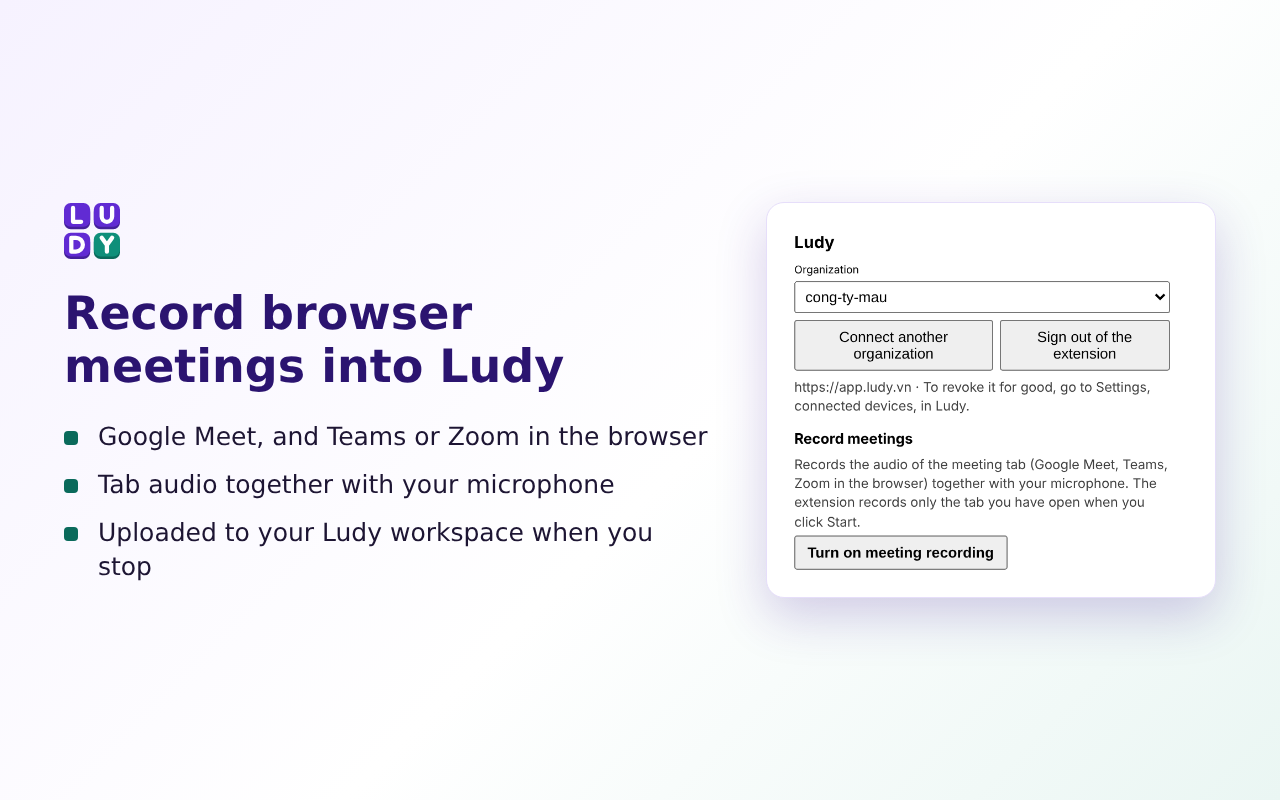
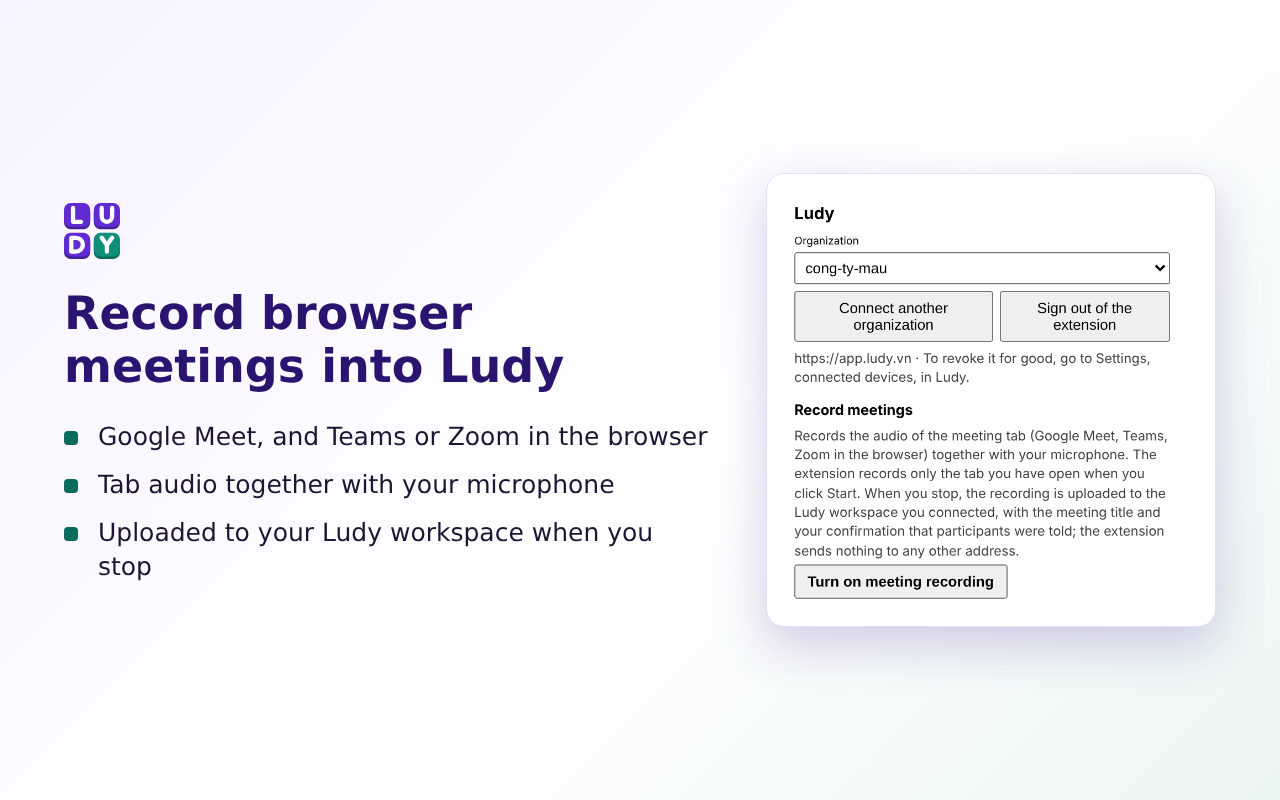
docs+fix(extension): review against the Chrome Web Store 2026 policy; disclose where a recording goes; correct the calendar and live-notes statements (D1, Refs #3180)
A written review in docs/security with a verdict and evidence per policy point (the store's own pages
could not be read from the session and the review says so); the popup note says where the recording
goes; the privacy page (v1.1) states what the calendar read keeps for Google and Outlook and that live
notes send audio while recording; the runbook's drafts follow, and a section lists what only a person
can do. No permission is added or loosened.

Claude-Session: https://claude.ai/code/session_01GbDCpsQGF6nQV3XHopMuyF

Changed region(s): [[0.5938, 0.25, 0.9688, 0.7812]]

diff --git a/apps/web/src/content/privacy-vi.ts b/apps/web/src/content/privacy-vi.ts
@@ -15,7 +15,7 @@ export const privacyVi: PrivacyCopy = {
   crumbLabel: 'Đường dẫn trang',
   title: 'Chính sách quyền riêng tư',
   lead: 'Trang này nói rõ Ludy xử lý dữ liệu thế nào khi bạn dùng tiện ích Ludy cho trình duyệt và khi bạn dùng Ludy Cloud. Phần về tiện ích đi trước, vì đó là phần cần đọc trước khi bạn bấm ghi.',
-  versionLine: 'Phiên bản 1.0, có hiệu lực từ 13/11/2026.',
+  versionLine: 'Phiên bản 1.1, có hiệu lực từ 15/11/2026.',
   reviewNotice: 'Chính sách này đang được rà soát và có thể được cập nhật.',
   contentsTitle: 'Nội dung',
   sections: [
@@ -58,6 +58,8 @@ export const privacyVi: PrivacyCopy = {
             ['Mã đăng nhập của tiện ích', 'Sau khi bạn đăng nhập Ludy và cho phép tiện ích', 'Để Ludy biết tiện ích làm việc cho bạn, trong một tổ chức'],
             ['Tên thiết bị, ví dụ "Tiện ích Ludy, Chrome trên Windows"', 'Khi bạn kết nối tiện ích', 'Để bạn thấy và thu hồi thiết bị trong Ludy. Chỉ gồm trình duyệt và hệ điều hành, không có địa chỉ mạng hay số sê-ri'],
             ['Địa chỉ Ludy và các tính năng bạn đã bật', 'Khi bạn cài đặt tiện ích', 'Lưu trong bộ nhớ riêng của tiện ích trên máy bạn'],
+            ['Các cuộc họp sắp tới trong lịch của bạn (tên, giờ, nơi họp; tối đa 5 cuộc trong 30 phút tới)', 'Chỉ khi bạn bật đọc lịch trong Ludy và cho phép thêm một lần ở bước đăng nhập tiện ích', 'Để hiện thẻ "Sắp họp" và điền sẵn tên cuộc họp khi bạn bấm "Ghi cuộc họp này". Tiện ích chỉ hiển thị danh sách này, không lưu'],
+            ['Âm thanh gửi đi trong lúc ghi', 'Chỉ khi bạn tick "Ghi chú trực tiếp" cho cuộc họp đó', `Để ${N.gm} ghi chú ngay trong cuộc họp: các mẩu âm thanh được gửi tới địa chỉ Ludy của bạn khi đang ghi, không đợi tới lúc dừng; có thể tốn thêm phút phiên âm`],
           ],
         },
         {
@@ -201,7 +203,9 @@ export const privacyVi: PrivacyCopy = {
           items: [
             'Dữ liệu tài khoản: họ tên, email, mật khẩu (chỉ lưu dạng băm), yếu tố xác thực hai lớp; và hoạt động như thời điểm đăng nhập, địa chỉ IP, trình duyệt, nhật ký thao tác. Với dữ liệu này, Ludy là bên kiểm soát dữ liệu.',
             'Dữ liệu trong sổ sách của tổ chức (chứng từ, hóa đơn, sao kê, bút toán, và cuộc họp): tổ chức quyết định mục đích xử lý. Ludy là bên xử lý và chỉ làm theo chỉ dẫn của tổ chức.',
-            'Lịch Google: chỉ khi một thành viên tự kết nối lịch của mình. Ludy đọc các khoảng giờ bận, không đọc tiêu đề hay người tham dự. Mọi thành viên của tổ chức thấy các khoảng giờ bận này (không kèm nội dung).',
+            'Lịch Google: chỉ khi một thành viên tự kết nối lịch của mình. Mặc định Ludy chỉ đọc các khoảng giờ bận, không đọc tiêu đề hay người tham dự, và mọi thành viên của tổ chức thấy các khoảng giờ bận này (không kèm nội dung).',
+            'Chỉ khi chính thành viên đó bật "Cho Ludy đọc tên và giờ cuộc họp trong lịch" và cho phép thêm một lần trên trang của Google, Ludy đọc từ lịch chính của họ, trong khoảng từ 1 ngày trước đến 7 ngày sau: tên cuộc họp (cắt còn 200 ký tự), giờ bắt đầu và kết thúc, múi giờ, địa chỉ vào họp trên Google Meet, Zoom hoặc Teams và số người được mời. Ludy không đọc địa chỉ email người được mời, phần mô tả hay tệp đính kèm. Chỉ chính thành viên đó đọc được các dòng này (chủ sở hữu, quản trị viên, thành viên khác và hệ thống không đọc). Chúng bị xóa ngay khi họ tắt việc đọc hoặc ngắt kết nối lịch; các dòng nằm ngoài khoảng trên được dọn đi theo lịch quét, và dòng đã gắn với một cuộc họp đã ghi được giữ cùng cuộc họp đó. Tên cuộc họp có thể chứa tên người khác.',
+            'Lịch Outlook (Microsoft): chỉ khi một thành viên tự kết nối lịch của mình. Microsoft chỉ có loại quyền đọc kèm tiêu đề sự kiện, nên quyền được cấp ngay từ lúc kết nối ở mức đó và màn hình nói rõ như vậy; việc Ludy đọc và giữ gì do mã của Ludy và công tắc của thành viên quyết định. Mặc định Ludy chỉ đọc và giữ các khoảng giờ bận. Chỉ khi thành viên bật "Cho Ludy đọc tên và giờ cuộc họp trong lịch", Ludy mới đọc và giữ tên cuộc họp, giờ, địa chỉ vào họp Teams và số người được mời (Ludy đếm số người được mời trong bộ nhớ và không giữ địa chỉ nào), trong cùng khoảng từ 1 ngày trước đến 7 ngày sau, với cùng quy tắc về người đọc và việc xóa như lịch Google ở trên.',
             'Mục đích: cung cấp dịch vụ, bảo mật (xác thực đăng nhập, xác thực hai lớp, nhật ký kiểm toán), hỗ trợ và vận hành, và trả lời yêu cầu hợp lệ của cơ quan nhà nước.',
             'Ludy không bán dữ liệu cá nhân, không dùng chứng từ hay sổ sách của bạn để quảng cáo, và không dùng chúng để huấn luyện mô hình AI.',
             'AI với chứng từ: hóa đơn điện tử dạng XML được đọc trực tiếp, không qua AI. PDF và ảnh chụp chứng từ được gửi tới nhà cung cấp AI của triển khai để đọc nội dung. Kết quả luôn được kiểm bằng quy tắc và do người duyệt trước khi ghi sổ.',

diff --git a/apps/web/src/content/privacy-en.ts b/apps/web/src/content/privacy-en.ts
@@ -15,7 +15,7 @@ export const privacyEn: PrivacyCopy = {
   crumbLabel: 'Breadcrumb',
   title: 'Privacy policy',
   lead: 'This page explains how Ludy handles data when you use the Ludy browser extension and when you use Ludy Cloud. The extension comes first, because it is the part to read before you press record.',
-  versionLine: 'Version 1.0, effective 13 November 2026.',
+  versionLine: 'Version 1.1, effective 15 November 2026.',
   reviewNotice: 'This policy is being reviewed and may be updated.',
   contentsTitle: 'Contents',
   sections: [
@@ -58,6 +58,8 @@ export const privacyEn: PrivacyCopy = {
             ['The extension\'s sign-in token', 'After you sign in to Ludy and allow the extension', 'So Ludy knows the extension works for you, in one organization'],
             ['A device name, for example "Tiện ích Ludy, Chrome trên Windows"', 'When you connect the extension', 'So you can see and revoke the device in Ludy. It holds the browser and the operating system only, never a network address or serial number'],
             ['The Ludy address and the features you turned on', 'When you set the extension up', 'Kept in the extension\'s own storage on your computer'],
+            ['Your next meetings from your calendar (title, time, place; at most 5 in the next 30 minutes)', 'Only when you turn on calendar reading in Ludy and allow it once more when you sign in to the extension', 'To show the "Starting soon" card and fill in the meeting title when you click "Record this meeting". The extension only displays this list and does not keep it'],
+            ['Audio sent while you record', 'Only when you tick "Live notes" for that meeting', `So ${N.gm} can take notes during the meeting: small pieces of audio go to your Ludy address while you record, without waiting for you to stop; this may use extra transcription minutes`],
           ],
         },
         {
@@ -201,7 +203,9 @@ export const privacyEn: PrivacyCopy = {
           items: [
             'Account data: name, email, password (stored only as a hash), two-factor method; and activity such as sign-in times, IP address, browser and an action log. For this data Ludy is the data controller.',
             'Data in an organization\'s books (documents, invoices, bank statements, journal entries, and meetings): the organization decides why it is processed. Ludy is the processor and acts only on the organization\'s instructions.',
-            'Google Calendar: only when a member connects their own calendar. Ludy reads busy time slots, not titles or attendees. Every member of the organization sees these busy slots (without any content).',
+            'Google Calendar: only when a member connects their own calendar. By default Ludy reads busy time slots only, not titles or attendees, and every member of the organization sees these busy slots (without any content).',
+            'Only when that member turns on "Let Ludy read the names and times of meetings in my calendar" and allows it once more on Google\'s page, Ludy reads from their primary calendar, from 1 day back to 7 days ahead: the meeting name (cut at 200 characters), start and end, time zone, the Google Meet, Zoom or Teams join address and the number of invitees. Ludy does not read invitees\' email addresses, descriptions or attachments. Only that member can read these rows (owners, admins, other members and the system cannot). They are deleted at once when the member turns the reading off or disconnects the calendar; rows outside that window are cleaned up by a scheduled sweep, and a row linked to a meeting the member recorded is kept with that meeting. A meeting name can contain other people\'s names.',
+            'Outlook (Microsoft) calendar: only when a member connects their own calendar. Microsoft offers only a permission that includes event titles, so the grant is at that level from the moment of connecting, and the screen says so; what Ludy reads and keeps is decided by Ludy\'s own code and the member\'s switch. By default Ludy reads and keeps busy time slots only. Only when the member turns on "Let Ludy read the names and times of meetings in my calendar" does Ludy read and keep the meeting name, time, Teams join address and number of invitees (Ludy counts the invitees in memory and keeps no address), in the same window from 1 day back to 7 days ahead, with the same rules on who can read it and on deletion as for Google Calendar above.',
             'Purposes: to provide the service, security (sign-in checks, two-factor, audit log), support and operations, and answering valid requests from public authorities.',
             'Ludy does not sell personal data, does not use your documents or books for advertising, and does not use them to train AI models.',
             'AI with documents: e-invoices in XML are read directly, without AI. PDFs and photos of documents are sent to the deployment\'s AI provider to be read. The result is always checked by rules and approved by a person before it is booked.',

diff --git a/apps/extension/src/strings.ts b/apps/extension/src/strings.ts
@@ -33,7 +33,7 @@ const VI = {
   agendaOn: 'Hiện cuộc họp sắp tới',
   meetingsOn: 'Bật ghi cuộc họp',
   meetingsOff: 'Tắt và trả lại quyền',
-  meetingsNote: 'Ghi âm tab họp (Google Meet, Teams, Zoom trên trình duyệt) cùng micro của bạn. Tiện ích chỉ ghi tab bạn đang mở khi bấm Bắt đầu.',
+  meetingsNote: 'Ghi âm tab họp (Google Meet, Teams, Zoom trên trình duyệt) cùng micro của bạn. Tiện ích chỉ ghi tab bạn đang mở khi bấm Bắt đầu. Khi bạn dừng, bản ghi được tải lên tổ chức Ludy bạn đã kết nối, kèm tên cuộc họp và xác nhận đã báo cho người tham gia; tiện ích không gửi đến địa chỉ nào khác.',
   permissionDenied: 'Chưa có quyền ghi tab. Hãy bấm lại và chọn "Cho phép".',
   consentTitle: 'Xác nhận đồng ý ghi âm (Bắt buộc)',
   consentNotice: 'Trước khi bắt đầu, người chủ trì phải thông báo cho tất cả người tham gia rằng cuộc họp được ghi âm và xử lý theo chính sách quyền riêng tư.',
@@ -135,7 +135,7 @@ export const ENGLISH: Strings = {
   agendaOn: 'Show upcoming meetings',
   meetingsOn: 'Turn on meeting recording',
   meetingsOff: 'Turn off and give the permission back',
-  meetingsNote: 'Records the audio of the meeting tab (Google Meet, Teams, Zoom in the browser) together with your microphone. The extension records only the tab you have open when you click Start.',
+  meetingsNote: 'Records the audio of the meeting tab (Google Meet, Teams, Zoom in the browser) together with your microphone. The extension records only the tab you have open when you click Start. When you stop, the recording is uploaded to the Ludy workspace you connected, with the meeting title and your confirmation that participants were told; the extension sends nothing to any other address.',
   permissionDenied: 'Tab recording is not allowed yet. Click again and choose "Allow".',
   consentTitle: 'Recording consent confirmation (Mandatory)',
   consentNotice: 'Before starting, the organizer must notify all participants that the meeting is recorded and processed according to privacy policy.',

diff --git a/apps/web/src/content/site.ts b/apps/web/src/content/site.ts
@@ -39,8 +39,8 @@ export const LEGAL_PAGES = {
 export type LegalPageKey = keyof typeof LEGAL_PAGES;
 // The version of the privacy page and the day it took effect (ISO date). The copy of both languages shows them, and
 // privacy-page.test.ts checks that they do. Change them in the same commit as any change to what the page says.
-export const PRIVACY_VERSION = '1.0';
-export const PRIVACY_UPDATED = '2026-11-13';
+export const PRIVACY_VERSION = '1.1';
+export const PRIVACY_UPDATED = '2026-11-15';
 // Where a privacy request goes by email (deletion, export, questions): the address the owner gave on 2026-11-13. null hides the
 // contact line, so a deployment of this site with no address shows none. Never invent one.
 export const PRIVACY_CONTACT_EMAIL: string | null = 'hi@ludy.so';

diff --git a/docs/security/extension-store-policy-review-2026.md b/docs/security/extension-store-policy-review-2026.md
@@ -1,0 +1,42 @@
+<!-- SPDX-License-Identifier: AGPL-3.0-only -->
+# The Ludy extension against the Chrome Web Store policy of 2026 (D1)
+
+Issue #3180 (step D1 of [Meetings integrations](../plan/meetings-integrations.md), section 7), reviewed on 2026-11-15 at commit `c483edbc` of `main`. Scope: the extension (`apps/extension/**`), its store assets (`apps/extension/store/**`), the listing and privacy answers drafted in [the extension store runbook](../runbooks/extension-store.md), and the privacy page `https://ludy.so/privacy` (`apps/web/src/content/privacy-*.ts`). It is useful for D2 (Edge) and for the owner's submission (#2584); the things only a person can do are in the runbook, section "Policy review 2026: what only a person can do".
+
+## What could and could not be read
+
+**The store's own policy pages could not be read.** The session that wrote this review has no network route to `developer.chrome.com` (the name does not resolve: it is outside the session's allowed domains), so the program policies, the user data policy, the Limited Use text and the blog post on the 2026 changes were **not read**. No other route was tried (no mirror, no search-engine summary, no cached copy): a policy read second-hand is not evidence. To read them, `developer.chrome.com` has to be allowed in the session's network settings, or a person reads the pages (runbook, item P1).
+
+What this review rests on instead:
+
+- **The requirement as recorded in the issue and the plan** (research of 2026-11-14, not re-read here): the policy in force from 2026-08-01 requires the data an extension collects to be necessary for one disclosed purpose, every collection to be prominently disclosed, and the most common refusal is a permission that is asked and not used; the review points the issue lists (single purpose, permissions asked versus used, prominent disclosure before the first recording, the privacy policy saying where audio is processed and for how long, the data-safety answers, no remote code, limited use).
+- **General knowledge of the long-standing store policies**, from before this session and **unchecked against the current text**: that is why each verdict below is "the extension against the requirement as summarized", and why every store-side wording is a person's item to confirm.
+- **The code and the texts of this repository**, which were read: each piece of evidence below is a file and line of the commit above.
+
+A verdict here is therefore a statement about the extension. It is not a statement that the store will accept it.
+
+## The points, with verdict and evidence
+
+| # | Policy point | Verdict | Evidence |
+|---|---|---|---|
+| 1 | Single purpose | **Pass, wording fixed** | One purpose: record the audio of a meeting in a browser tab with the microphone and upload it to the member's own Ludy workspace (`manifest.json` description, `_locales/*/messages.json`). The other things the popup does serve it: sign-in and the org picker (`popup.ts:120`), the "starting soon" card that fills the meeting title (`agenda.ts`, B2) and live notes (`capture-run.ts:154`, ticked per meeting). `src/page-capture.ts` defines a generic capture contract that **no feature uses** and needs no permission the manifest lacks. **Gap found:** the single-purpose draft and the long description in the runbook named neither the calendar shortcut nor live notes; fixed (the drafts now say how both serve the one purpose) |
+| 2 | Permissions asked and used | **Pass** (two items for a person) | `storage`: `popup.ts:18`, `background.ts:30,71`, `state.ts`. `identity`: `popup.ts:119-120` (`launchWebAuthFlow` only). Host `https://app.ludy.vn/*`: every request goes through `createClient(address, token)` (`api.ts:67`); there is no other `fetch`. `tabCapture`: `popup.ts:325` (`getMediaStreamId`), asked at `popup.ts:296` on the member's click when meetings is turned on, released at `popup.ts:308`. `offscreen`: `background.ts:18` (`USER_MEDIA`). Optional hosts `https://*/*`, `http://localhost/*`: `popup.ts:88` asks for **one origin** the member typed, removed again at `popup.ts:96`. No permission is asked and unused. The fixed list is in `src/manifest-policy.ts`, and CI fails a built manifest that differs from it (`scripts/check-manifest.mjs`; run for this review: "permissions match the fixed list"). **For a person:** (a) the broad optional pattern `https://*/*` is the one a reviewer may question; it is optional, asked for one origin at a time, and needed for self-hosted Ludy, and the justification is in the runbook; it cannot be narrowed without dropping self-hosting. (b) Whether Chrome accepts `offscreen` in `optional_permissions` was **not verified**: the e2e tests replace the permission prompt (`e2e/extension.spec.ts:417-426`) and the packaged manifest check only compares lists. Step 3 of the manual test in `apps/extension/README.md` ("the browser asks for tab capture") settles it on a real Chrome and has to be run before the submission |
+| 3 | Prominent disclosure before the first recording | **Fixed, then pass** | Before: the consent step (`consent.ts`, `strings.ts consentNotice`) is about telling the **participants**; the note shown before "Bật ghi cuộc họp" (`meetingsNote`, `popup.ts:176`) said what is recorded and that only the open tab is recorded, but **not where the recording goes**. Now: it says that on stop the recording is uploaded to the Ludy workspace the member connected, with the meeting title and the confirmation, and that nothing goes to any other address (`strings.ts` `meetingsNote`, both languages). The other collections are disclosed at the point of choice: live notes send audio while recording (`liveNotesHint`), the calendar shortcut says what it reads (`agendaNote`). Left as it is: the device name (browser and operating system) sent when connecting is disclosed on the privacy page and the runbook, not in the popup; low sensitivity, listed as a follow-up. The store screenshots that show the popup note were regenerated (`store/en-1-…`, `store/vi-1-…`) |
+| 4 | Privacy policy: where audio is processed and for how long | **Fixed, then pass** (lawyer must re-read) | The page exists at `/privacy` and `/en/privacy` and has the extension first: what is handled, the consent step, one address only, storage and encryption, who reads, the transcription provider and AI-off case, retention table (audio 30 days by default, video 7, text 12 months), rights. **Gaps found, fixed in `privacy-vi.ts` and `privacy-en.ts`, version 1.1 of 2026-11-15:** (a) the page said Ludy reads busy slots and **not titles** for the calendar, which stopped being true with B1 (#3165, Google) and B3 (#3167, Outlook); both now state, with the member's own switch, what is read and kept (name cut at 200, times, time zone, join address, number of invitees; never an invitee address, a description or an attachment), who reads it, when it is deleted, and that Outlook's permission is title-level from the connect; (b) live notes send audio **while recording**, which the page did not say; two rows were added to the extension's table, one for each |
+| 5 | Data-safety answers of the listing (the "Privacy practices" tab) | **Pass** (answers updated, a person re-enters them) | The runbook's declaration (authentication information, personal communications, personally identifiable information: yes; website content, history, location, financial, health, user activity: no; the three certifications) still matches the code: the extension reads no page (`manifest-policy.ts` forbids content scripts), and the calendar list is received from the member's own Ludy account, not collected from a page. The "why" text of the two ticked categories now also names the calendar titles and the live-notes audio. The form is a declaration: the owner enters it and the lawyer (#2585) sees it first |
+| 6 | No remote code | **Pass** | Manifest V3; `content_security_policy.extension_pages` is `script-src 'self'; object-src 'self'` and `manifestViolations` refuses `unsafe-eval`, `unsafe-inline`, any address or `*` there; `content_scripts`, `externally_connectable`, `web_accessible_resources`, `update_url`, `declarative_net_request` and `sandbox` are refused (`manifest-policy.ts:16`); a search of `src/` and `scripts/build.mjs` for `eval`, `new Function`, `importScripts`, `document.write`, script elements, imports from an address and `innerHTML` assignments finds nothing, and the only absolute addresses in the code are the default Ludy address (`ludy-address.ts:5`) and the host permission patterns (`manifest-policy.ts:10,13`); the build runs no bundler and the package has no runtime dependency (`apps/extension/package.json`, `scripts/build.mjs`) |
+| 7 | Limited use and handling of user data | **Pass on behavior; wording for a person** | Behavior: recordings, the token and the calendar list go only to the Ludy address the member configured; no analytics, telemetry or advertising identifier (`src/` has none, every request goes through `api.ts:67`); nothing is sold, used for advertising or for credit, and the privacy page says so (summary and "Ludy Cloud in general"). The extension token is one org, one member, the turned-on features, 90 days, revocable (privacy page, "Where the data goes"). **Not verifiable here:** whether the policy asks for a specific affirmative "Limited Use" sentence in the privacy policy or the listing. A proposed sentence is in the runbook (item P4) for the lawyer; it was **not** added to the live page, because it is a legal commitment that has to be reviewed first |
+| 8 | Listing text matches what the extension does (no misleading metadata) | **Fixed** | The long descriptions drafted in the runbook said nothing of the calendar shortcut and live notes, and the Vietnamese one said the popup is Vietnamese only, which stopped being true with #3008 (English for an English browser). The drafts were corrected in both languages. The short description (`_locales/*/messages.json`) is unchanged and within the 132-character limit (checked by `check:manifest`) |
+
+## What changed in this PR
+
+- `apps/extension/src/strings.ts`: the note before turning meeting recording on says where the recording goes (point 3). No manifest, permission or `package.json` change; the permission list is not loosened.
+- `apps/extension/store/en-1-screenshot-1280x800.png` and `vi-1-…`: regenerated with `node scripts/store-art.mjs`, because the popup note is in them.
+- `apps/web/src/content/privacy-vi.ts`, `privacy-en.ts`, `site.ts`: points 4 above; version 1.1, 2026-11-15. **This is live copy on the marketing site once merged:** the effective date in the page is the date of this change, so the owner moves it if the merge or the deploy is later, in the same three files.
+- `docs/runbooks/extension-store.md`: the single-purpose draft, the long descriptions and the data-safety "why" rows brought in line, and the new section for what only a person can do.
+
+## Follow-ups that are not blocking
+
+- **Device name at sign-in:** the browser and operating system name sent when connecting is only in the privacy page; add one line to the popup's sign-in step if a reviewer asks (a P3 follow-up issue, #3273).
+- **Edge (D2):** Microsoft's Edge Add-ons policies were not read either; this review does not apply to them.
+- **The two policy re-reads** (the live policy text and the 2026 changes) are item P1 of the runbook; a differing requirement changes this table, not only the runbook.

diff --git a/docs/runbooks/extension-store.md b/docs/runbooks/extension-store.md
@@ -65,7 +65,7 @@ Not requested, by rule of plan section 5.7: `<all_urls>`, `tabs`, `activeTab`, `
 
 For the store's "single purpose" field (the store wants one narrow purpose, stated plainly). Draft:
 
-> Ludy records the audio (and, only when the member ticks it, the video) of a meeting that is open in the member's browser tab, together with their microphone, and uploads it to the member's own Ludy workspace as a meeting, after the member confirms the participants were told. Signing in to Ludy, choosing the workspace and turning meeting recording on or off exist only to serve that one purpose.
+> Ludy records the audio (and, only when the member ticks it, the video) of a meeting that is open in the member's browser tab, together with their microphone, and uploads it to the member's own Ludy workspace as a meeting, after the member confirms the participants were told. Signing in to Ludy, choosing the workspace and turning meeting recording on or off exist only to serve that one purpose. The "starting soon" card, which fills in the meeting title from the member's own calendar (only when the member turned calendar reading on in Ludy), and the optional live notes, which send the audio to the same workspace while recording instead of only at the end, serve the same purpose and send nothing to any other address.
 
 Check against the manifest's `description`, which is a message reference whose texts are in `apps/extension/_locales/<lang>/messages.json` (vi: "Ghi lại cuộc họp trên trình duyệt vào Ludy: ghi âm tab họp cùng micro, tải lên khi dừng."; en: "Record a browser meeting's tab audio and your microphone into Ludy, and upload it when you stop."), and keep the two aligned: the store compares them.
 
@@ -95,8 +95,8 @@ What the extension handles, from `src/api.ts`, `src/state.ts`, `src/auth.ts`, `s
 | Store category | Tick? | Why |
 |---|---|---|
 | Authentication information | Yes | The extension token, kept in the extension's storage and sent to the member's Ludy address with each request. Its scope is one workspace, one member and the turned-on features; it expires after 90 days and the member can revoke it in Ludy |
-| Personal communications | Yes | The audio of a meeting the member chooses to record, with their microphone, and the video only when they tick "Ghi cả video". The member confirms that participants were told before anything is recorded |
-| Personally identifiable information | Yes | The meeting's name the member types, and the voices (and, with video, the faces) of participants in the recording. The extension also sends a device name such as "Tiện ích Ludy, Chrome trên Windows" (browser and operating system, never an address or serial number) so the member can see and revoke the device in Ludy. Declared on the side of more disclosure (Meetings PO decision, 2026-11-11) |
+| Personal communications | Yes | The audio of a meeting the member chooses to record, with their microphone, and the video only when they tick "Ghi cả video"; with "Ghi chú trực tiếp" ticked, pieces of the audio are sent while recording and not only at the end. The member confirms that participants were told before anything is recorded |
+| Personally identifiable information | Yes | The meeting's name the member types, the title and time of the member's next calendar meetings (only when they turned calendar reading on in Ludy; shown in the popup, used to fill in the meeting title and not kept by the extension), and the voices (and, with video, the faces) of participants in the recording. The extension also sends a device name such as "Tiện ích Ludy, Chrome trên Windows" (browser and operating system, never an address or serial number) so the member can see and revoke the device in Ludy. Declared on the side of more disclosure (Meetings PO decision, 2026-11-11) |
 | Website content | No | The extension reads no page content, no address, no title and no selected text. The generic page-capture contract exists in the code (`src/page-capture.ts`) but no feature uses it and the permissions it would need are not in the manifest |
 | Web history, location, financial and payment information, health information, user activity | No | Not collected. No analytics, no telemetry, no advertising identifier (`apps/extension/src` has no such code; every request goes to the configured Ludy address) |
 
@@ -140,6 +140,8 @@ Cách hoạt động
 - Trước khi ghi, bạn phải xác nhận đã thông báo cho tất cả người tham gia rằng cuộc họp được ghi âm. Không có xác nhận thì không bắt đầu được.
 - Khi ghi, biểu tượng hiện REC và đồng hồ chạy. Bản ghi được lưu trên máy bạn khi đang ghi, nên đóng tab nhầm không làm mất.
 - Khi dừng, bản ghi được tải lên cuộc họp trong Ludy. Âm thanh được mã hóa khi lưu. Video chỉ được lưu khi bạn tích "Ghi cả video".
+- Nếu bạn bật đọc lịch trong Ludy, thẻ "Sắp họp" hiện tối đa 5 cuộc họp trong 30 phút tới của bạn để điền sẵn tên khi bạn bấm "Ghi cuộc họp này"; Ludy không tự ghi gì.
+- Nếu bạn tick "Ghi chú trực tiếp", âm thanh được gửi lên Ludy ngay trong lúc ghi (không đợi tới lúc dừng) để Vy ghi chú trong cuộc họp.
 - Phiên bản tóm tắt, ghi lời và việc cần làm chạy trong Ludy và do người ghi duyệt; tiện ích chỉ ghi và tải lên.
 
 Quyền riêng tư
@@ -148,7 +150,7 @@ Quyền riêng tư
 - Bạn có thể thu hồi tiện ích bất cứ lúc nào ở Cài đặt, mục thiết bị đã kết nối, trong Ludy.
 - Mã nguồn mở theo giấy phép AGPL-3.0.
 
-Cần có tài khoản Ludy và tổ chức đã bật tính năng cuộc họp. Hiện giao diện của tiện ích bằng tiếng Việt.
+Cần có tài khoản Ludy và tổ chức đã bật tính năng cuộc họp. Giao diện của tiện ích bằng tiếng Anh nếu trình duyệt của bạn dùng tiếng Anh, và bằng tiếng Việt với mọi ngôn ngữ khác.
 ```
 
 **en**
@@ -162,6 +164,8 @@ How it works
 - Before recording, you must confirm that you told every participant the meeting is recorded. Without that confirmation it cannot start.
 - While recording, the icon shows REC and a timer runs. The recording is kept on your device as it goes, so closing the tab by mistake does not lose it.
 - When you stop, the recording is uploaded to the meeting in Ludy. Audio is encrypted when stored. Video is stored only if you tick "Record video too".
+- If you turn on calendar reading in Ludy, a "Starting soon" card shows up to 5 meetings in your next 30 minutes so the title is filled in when you click "Record this meeting"; Ludy never records by itself.
+- If you tick "Live notes", the audio is sent to Ludy while you record (not only when you stop) so Vy can take notes during the meeting.
 - The summary, the transcript and the action items run inside Ludy and are reviewed by the person who recorded; the extension only records and uploads.
 
 Privacy
@@ -192,6 +196,21 @@ Also needed by the dashboard (check): a **128 by 128 icon** (gap 1 above: `dist/
 ### Data-use disclosures
 
 The "Privacy practices" answers above are the data-use disclosures. Keep one rule: the listing text, the privacy policy page (`apps/web/src/content/privacy-vi.ts`, `privacy-en.ts`; bump `PRIVACY_VERSION` and `PRIVACY_UPDATED` in `site.ts`) and the dashboard answers say the same things. When one changes (a permission, a new feature, a new data type), change all three before submitting.
+
+## Policy review 2026: what only a person can do (D1, #3180)
+
+The written review is [the extension against the Chrome Web Store policy of 2026](../security/extension-store-policy-review-2026.md): a verdict and the evidence for each point, and what was fixed in the code and the drafts. It could **not** read the store's policy pages (the session has no route to `developer.chrome.com`), so these items are for the coordinator to hand to the owner. Do them before the first submission, and again before D2 (Edge) with Microsoft's pages.
+
+| # | Item | Who | Check |
+|---|---|---|---|
+| P1 | Read the current store pages and correct the review in the same PR if one differs: the program policies, the user data policy (Limited Use, prominent disclosure, privacy policy rules), the listing and privacy-practices requirements, anything on `tabCapture` and audio, and the Chrome developer blog post on the 2026 policy changes (`cws-policy-updates-2026`). Write the date you read them at the top of the review | owner or the coordinator with access | the review names the date and any changed row |
+| P2 | Prove on a real Chrome that the browser accepts `offscreen` together with `tabCapture` as **optional** permissions: step 3 of the manual test in [the extension README](../../apps/extension/README.md) ("the browser asks for tab capture" when "Bật ghi cuộc họp" is clicked). The e2e tests replace this prompt, so nothing automated has checked it. If Chrome refuses, `offscreen` has to move to `permissions` (a change of the fixed list in `manifest-policy.ts`, so the security review first) | a person, with Chrome | the result is on the issue or the PR |
+| P3 | Paste the updated texts into the dashboard: the single-purpose statement, the vi and en long descriptions and the "why" of the two data categories in "Privacy practices" (all above, corrected in D1: the calendar card and live notes). The permission justifications above did not change (no permission was added) | owner | the dashboard shows the new text |
+| P4 | Show the lawyer (#2585, #328) the privacy page **version 1.1** (calendar reading for Google and Outlook, live notes) before submitting. The page's effective date is 2026-11-15, the day of the change: move it in `site.ts`, `privacy-vi.ts` and `privacy-en.ts` if the deploy is later. If the store policy asks for an explicit Limited Use statement (P1), the lawyer decides the sentence; a proposal: "Ludy's use of information received through the extension adheres to the Chrome Web Store User Data Policy, including the Limited Use requirements." It was not added to the live page because it is a legal commitment | owner, lawyer | the lawyer's answer is on #2585 |
+| P5 | Fill the dashboard's **test instructions** for the store's reviewer: a test Ludy workspace (Ludy Cloud) with the `meetings` module on, a test account and its sign-in, and how to reach the consent step and the recording; a reviewer cannot judge an extension that needs an account without one. No real customer data. The credentials go only into the dashboard field, never into the repository | owner | the field is filled |
+| P6 | Upload the regenerated screenshots 1 (`apps/extension/store/vi-1-…` and `en-1-…`: the popup note now says where the recording goes) | owner | the listing shows the new images |
+| P7 | Re-enter the "Privacy practices" answers and the three certifications from this runbook, as a declaration the owner makes; the dashboard is the place the store reads them | owner | the tab is saved |
+| P8 | Edge (D2): read Microsoft's Edge Add-ons policies and listing fields, and whether a Chrome package with `tabCapture` is accepted unchanged; none of that was read for D1 | owner or coordinator | the Edge section of this runbook cites what was read |
 
 ## Submitting
 
